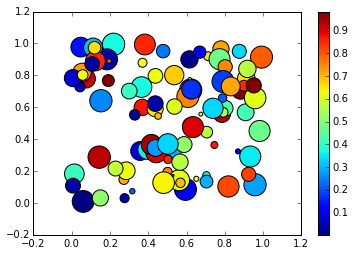
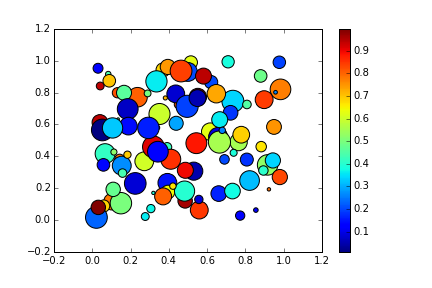
Added python.png

diff --git a/plot_rnd.py b/plot_rnd.py
@@ -2,7 +2,7 @@ import numpy as np
 import matplotlib.pyplot as plt
 
 # Replace '1234' in the bracket with your numeric ID
-np.random.seed(1234)
+np.random.seed(1204197)
 
 n = 100
 x = np.random.random(n)
@@ -17,5 +17,5 @@ im = ax.scatter(x, y, c=c, s=s, cmap=plt.cm.jet)
 fig.colorbar(im, ax=ax)
 
 # save the figure
-plt.savefig('foo.png')
+plt.savefig('plot_rnd.png')
 plt.show()
